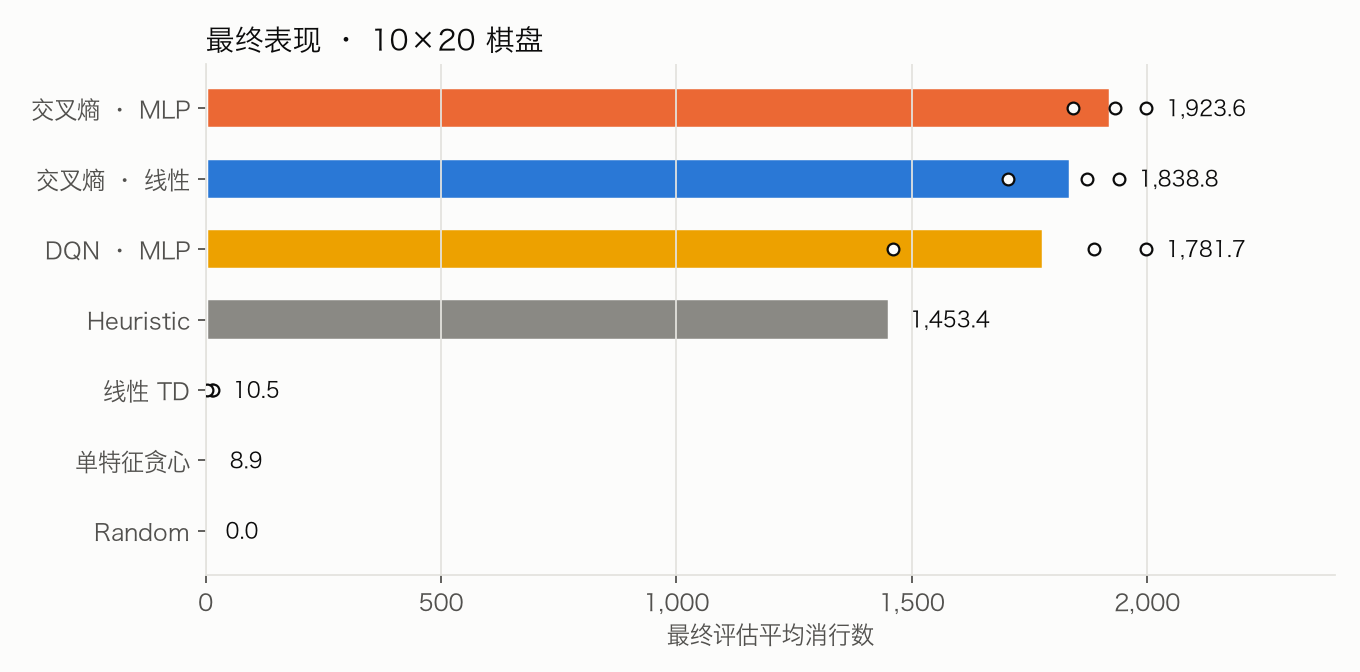
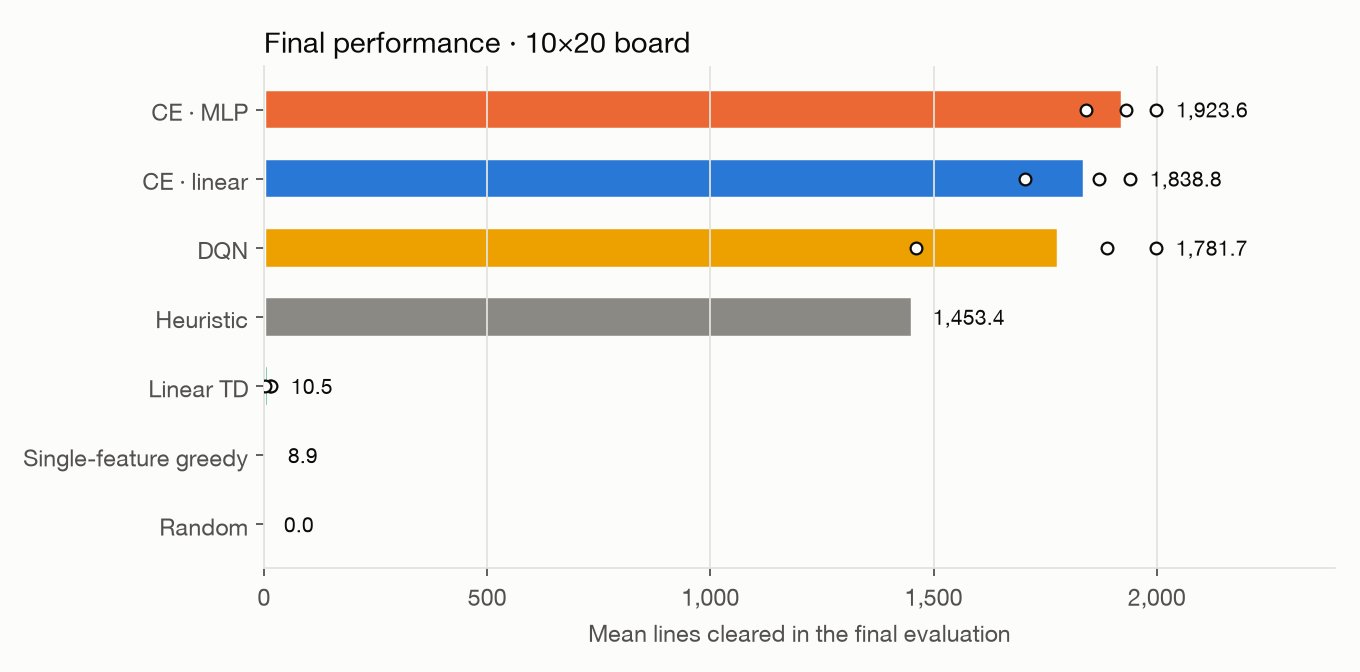
Switch figures and summary table to English
Figure titles, axis labels, legends and method names now match the README
(CE · linear, CE · MLP, Linear TD, DQN, Single-feature greedy); the summary
table is in English too. Values are written next to the end of each line,
with no footnotes, and the legend is sorted by final lines cleared.

diff --git a/t2x2/plot.py b/t2x2/plot.py
@@ -28,17 +28,17 @@ TEXT_2 = "#52514e"
 GRID = "#e4e3de"
 BASELINE = "#8a8984"
 MODELS = {
-    "ce_linear": ("交叉熵 · 线性", "#2a78d6"),
-    "ce_mlp": ("交叉熵 · MLP", "#eb6834"),
-    "linear_td": ("线性 TD", "#1baf7a"),
-    "dqn": ("DQN · MLP", "#eda100"),
+    "ce_linear": ("CE · linear", "#2a78d6"),
+    "ce_mlp": ("CE · MLP", "#eb6834"),
+    "linear_td": ("Linear TD", "#1baf7a"),
+    "dqn": ("DQN", "#eda100"),
 }
 BOARD = "10×20"
-BASELINES = {"random": "Random", "min_height": "单特征贪心", "heuristic": "Heuristic"}
+BASELINES = {"random": "Random", "min_height": "Single-feature greedy", "heuristic": "Heuristic"}
 SEQUENTIAL = ["#cde2fb", "#86b6ef", "#3987e5", "#1c5cab", "#0d366b"]
 
 plt.rcParams.update({
-    "font.family": ["Hiragino Sans GB", "Heiti SC", "Arial Unicode MS", "sans-serif"],
+    "font.family": ["Helvetica Neue", "Helvetica", "Arial", "DejaVu Sans", "sans-serif"],
     "axes.unicode_minus": False,
     "figure.facecolor": SURFACE,
     "axes.facecolor": SURFACE,
@@ -83,7 +83,7 @@ def curve(run: Path) -> tuple[np.ndarray, np.ndarray]:
 
 
 BASELINE_STYLES = {"heuristic": "--", "min_height": "-.", "random": ":"}
-STEPS_LABEL = "训练交互步数 · 放下的方块数,对数刻度"
+STEPS_LABEL = "Environment steps during training (pieces placed, log scale)"
 
 
 THOUSANDS = FuncFormatter(lambda v, _: f"{v:,.0f}")
@@ -117,7 +117,7 @@ def side_legend(fig, rect, rows: list[dict]) -> None:
     lax.set_axis_off()
     lax.set_xlim(0, 1)
     lax.set_ylim(0, 1)
-    lax.text(0, 1, "按最终消行排序", fontsize=9.5, color=TEXT_2, va="top")
+    lax.text(0, 1, "Sorted by final lines cleared", fontsize=9.5, color=TEXT_2, va="top")
     ordered = sorted(rows, key=lambda r: r["mean"], reverse=True)
     step = min(0.11, 0.88 / max(len(ordered), 1))
     for i, r in enumerate(ordered):
@@ -172,8 +172,8 @@ def label_values(ax, rows: list[dict], ends: dict) -> None:
 
 def plot_learning_curves(results: Path, out: Path, rows: list[dict]) -> None:
     fig, axes = plt.subplots(1, 2, figsize=(13, 4.6), sharex=True, sharey=True)
-    panels = [("策略搜索 · 交叉熵", ["ce_linear", "ce_mlp"]),
-              ("价值学习 · TD", ["linear_td", "dqn"])]
+    panels = [("Policy search · cross-entropy", ["ce_linear", "ce_mlp"]),
+              ("Value learning · TD", ["linear_td", "dqn"])]
     ends = []
     for ax, (title, models) in zip(axes, panels):
         end = {}
@@ -194,9 +194,9 @@ def plot_learning_curves(results: Path, out: Path, rows: list[dict]) -> None:
         ax.xaxis.set_minor_formatter(NullFormatter())
         ax.set_title(title, loc="left", fontsize=12, color=TEXT)
         ax.set_xlabel(STEPS_LABEL)
-    axes[0].set_ylabel("评估平均消行数")
+    axes[0].set_ylabel("Mean lines cleared in evaluation")
     axes[0].yaxis.set_major_formatter(THOUSANDS)
-    fig.suptitle(f"学习曲线 · {BOARD} 棋盘", x=0.01, ha="left", fontsize=13, color=TEXT)
+    fig.suptitle(f"Learning curves · {BOARD} board", x=0.01, ha="left", fontsize=13, color=TEXT)
     fig.subplots_adjust(left=0.06, right=0.79, top=0.84, bottom=0.15, wspace=0.14)
     for ax, end in zip(axes, ends):
         label_values(ax, rows, end)
@@ -211,7 +211,7 @@ def collect(results: Path) -> list[dict]:
         run = results / "baselines" / key
         if (run / "final_eval.csv").exists():
             lines = final_lines(run)
-            rows.append({"key": key, "label": label, "kind": "参考", "color": BASELINE,
+            rows.append({"key": key, "label": label, "kind": "reference", "color": BASELINE,
                          "mean": lines.mean(), "seed_means": [lines.mean()],
                          "episodes": len(lines), "capped": capped_count(run),
                          "env_steps": 0})
@@ -221,7 +221,7 @@ def collect(results: Path) -> list[dict]:
             continue
         per_seed = [final_lines(r) for r in runs]
         steps = [json.loads((r / "summary.json").read_text())["env_steps"] for r in runs]
-        rows.append({"key": key, "label": label, "kind": "模型", "color": color,
+        rows.append({"key": key, "label": label, "kind": "model", "color": color,
                      "mean": float(np.mean(np.concatenate(per_seed))),
                      "seed_means": [float(s.mean()) for s in per_seed],
                      "episodes": int(sum(len(s) for s in per_seed)),
@@ -253,8 +253,8 @@ def plot_all_methods(results: Path, out: Path, rows: list[dict]) -> None:
     ax.xaxis.set_major_locator(LogLocator(base=10))
     ax.xaxis.set_minor_formatter(NullFormatter())
     ax.set_xlabel(STEPS_LABEL)
-    ax.set_ylabel("评估平均消行数")
-    ax.set_title(f"全部 7 个方法 · {BOARD} 棋盘", loc="left", fontsize=13, color=TEXT)
+    ax.set_ylabel("Mean lines cleared in evaluation")
+    ax.set_title(f"All seven methods · {BOARD} board", loc="left", fontsize=13, color=TEXT)
     fig.subplots_adjust(left=0.08, right=0.76, top=0.9, bottom=0.13)
     label_values(ax, rows, end)
     side_legend(fig, [0.81, 0.3, 0.18, 0.58], rows)
@@ -277,9 +277,9 @@ def plot_final(rows: list[dict], out: Path) -> None:
                     textcoords="offset points", va="center", fontsize=9.5, color=TEXT)
     ax.set_yticks(y, [r["label"] for r in rows])
     ax.grid(axis="y", visible=False)
-    ax.set_xlabel("最终评估平均消行数")
+    ax.set_xlabel("Mean lines cleared in the final evaluation")
     ax.xaxis.set_major_formatter(THOUSANDS)
-    ax.set_title(f"最终表现 · {BOARD} 棋盘", loc="left", fontsize=13, color=TEXT)
+    ax.set_title(f"Final performance · {BOARD} board", loc="left", fontsize=13, color=TEXT)
     ax.set_xlim(0, max(max([r["mean"], *r["seed_means"]]) for r in rows) * 1.2 + 1)
     fig.tight_layout()
     fig.savefig(out / "final_performance.png", dpi=160)
@@ -302,22 +302,22 @@ def plot_grid(rows: list[dict], out: Path) -> None:
             ax.add_patch(plt.Rectangle((j, 1 - i), 0.98, 0.98, color=SEQUENTIAL[level]))
             ink = "white" if level >= 3 else TEXT
             if r is None:
-                text = "未运行"
+                text = "not run"
             else:
                 spread = (f" ± {np.std(r['seed_means']):.1f}"
                           if len(r["seed_means"]) > 1 else "")
-                text = (f"{MODELS[key][0]}\n{fmt_lines(r)}{spread} 行\n"
-                        f"训练步数 ≈ {r['env_steps']:,.0f}")
+                text = (f"{MODELS[key][0]}\n{fmt_lines(r)}{spread} lines\n"
+                        f"steps ≈ {r['env_steps']:,.0f}")
             ax.text(j + 0.49, 1 - i + 0.49, text, ha="center", va="center",
                     fontsize=10.5, color=ink, linespacing=1.5)
     ax.set_xlim(0, 2)
     ax.set_ylim(0, 2)
-    ax.set_xticks([0.49, 1.49], ["线性", "MLP"])
-    ax.set_yticks([1.49, 0.49], ["策略搜索", "价值学习"])
+    ax.set_xticks([0.49, 1.49], ["Linear", "MLP"])
+    ax.set_yticks([1.49, 0.49], ["Policy\nsearch", "Value\nlearning"])
     ax.tick_params(length=0, labelsize=11.5)
     for side in ("left", "bottom"):
         ax.spines[side].set_visible(False)
-    ax.set_title(f"2×2 框架 · {BOARD} 棋盘",
+    ax.set_title(f"2×2 grid · {BOARD} board",
                  loc="left", fontsize=12.5, color=TEXT)
     fig.tight_layout()
     fig.savefig(out / "grid_2x2.png", dpi=160)
@@ -325,15 +325,15 @@ def plot_grid(rows: list[dict], out: Path) -> None:
 
 
 def write_summary(rows: list[dict], path: Path, note: str = "") -> None:
-    lines = ([note, ""] if note else []) + ["| 模型 | 类别 | 平均消行 | seed 均值 | 评估局数 | 碰到上限局数 | 训练交互步数 |",
+    lines = ([note, ""] if note else []) + ["| Method | Kind | Mean lines | Per-seed means | Games | Games at cap | Training steps |",
              "|---|---|---:|---|---:|---:|---:|"]
-    order = ["参考", "模型"]
+    order = ["reference", "model"]
     for r in sorted(rows, key=lambda r: (order.index(r["kind"]), -r["mean"])):
         seeds = ", ".join(f"{m:.1f}" for m in r["seed_means"])
         lines.append(f"| {r['label']} | {r['kind']} | {r['mean']:.1f} | {seeds} | "
                      f"{r['episodes']} | {r['capped']} | {r['env_steps']:,.0f} |")
     if any(r["capped"] for r in rows):
-        lines.append("\n碰到上限的局在放满方块上限时被截断,其消行数是下限,平均消行应读作“至少”。")
+        lines.append("\nGames that hit the piece cap are cut short, so their line counts and the means are lower bounds.")
     path.write_text("\n".join(lines) + "\n", encoding="utf-8")
 
 
@@ -352,7 +352,7 @@ def main() -> None:
     plot_final(rows, out)
     plot_grid(rows, out)
     summary = args.results / "summary.md"
-    write_summary(rows, summary, "价值学习(线性 TD、DQN)的奖励 = 消行数,与交叉熵的目标一致。")
+    write_summary(rows, summary, "Value learning (linear TD, DQN) is trained on lines cleared, the CE objective.")
     print(summary.read_text())
 
 

diff --git a/results_10x20/summary.md b/results_10x20/summary.md
@@ -1,13 +1,13 @@
-价值学习(线性 TD、DQN)的奖励 = 消行数,与交叉熵的目标一致。
+Value learning (linear TD, DQN) is trained on lines cleared, the CE objective.
 
-| 模型 | 类别 | 平均消行 | seed 均值 | 评估局数 | 碰到上限局数 | 训练交互步数 |
+| Method | Kind | Mean lines | Per-seed means | Games | Games at cap | Training steps |
 |---|---|---:|---|---:|---:|---:|
-| Heuristic | 参考 | 1453.4 | 1453.4 | 50 | 22 | 0 |
-| 单特征贪心 | 参考 | 8.9 | 8.9 | 50 | 0 | 0 |
-| Random | 参考 | 0.0 | 0.0 | 50 | 0 | 0 |
-| 交叉熵 · MLP | 模型 | 1923.6 | 1842.0, 1998.0, 1930.8 | 150 | 139 | 15,080,527 |
-| 交叉熵 · 线性 | 模型 | 1838.8 | 1871.5, 1705.4, 1939.6 | 150 | 121 | 2,819,196 |
-| DQN · MLP | 模型 | 1781.7 | 1888.0, 1459.7, 1997.4 | 150 | 123 | 50,000 |
-| 线性 TD | 模型 | 10.5 | 14.0, 15.4, 2.1 | 150 | 0 | 50,000 |
+| Heuristic | reference | 1453.4 | 1453.4 | 50 | 22 | 0 |
+| Single-feature greedy | reference | 8.9 | 8.9 | 50 | 0 | 0 |
+| Random | reference | 0.0 | 0.0 | 50 | 0 | 0 |
+| CE · MLP | model | 1923.6 | 1842.0, 1998.0, 1930.8 | 150 | 139 | 15,080,527 |
+| CE · linear | model | 1838.8 | 1871.5, 1705.4, 1939.6 | 150 | 121 | 2,819,196 |
+| DQN | model | 1781.7 | 1888.0, 1459.7, 1997.4 | 150 | 123 | 50,000 |
+| Linear TD | model | 10.5 | 14.0, 15.4, 2.1 | 150 | 0 | 50,000 |
 
-碰到上限的局在放满方块上限时被截断,其消行数是下限,平均消行应读作“至少”。
+Games that hit the piece cap are cut short, so their line counts and the means are lower bounds.
